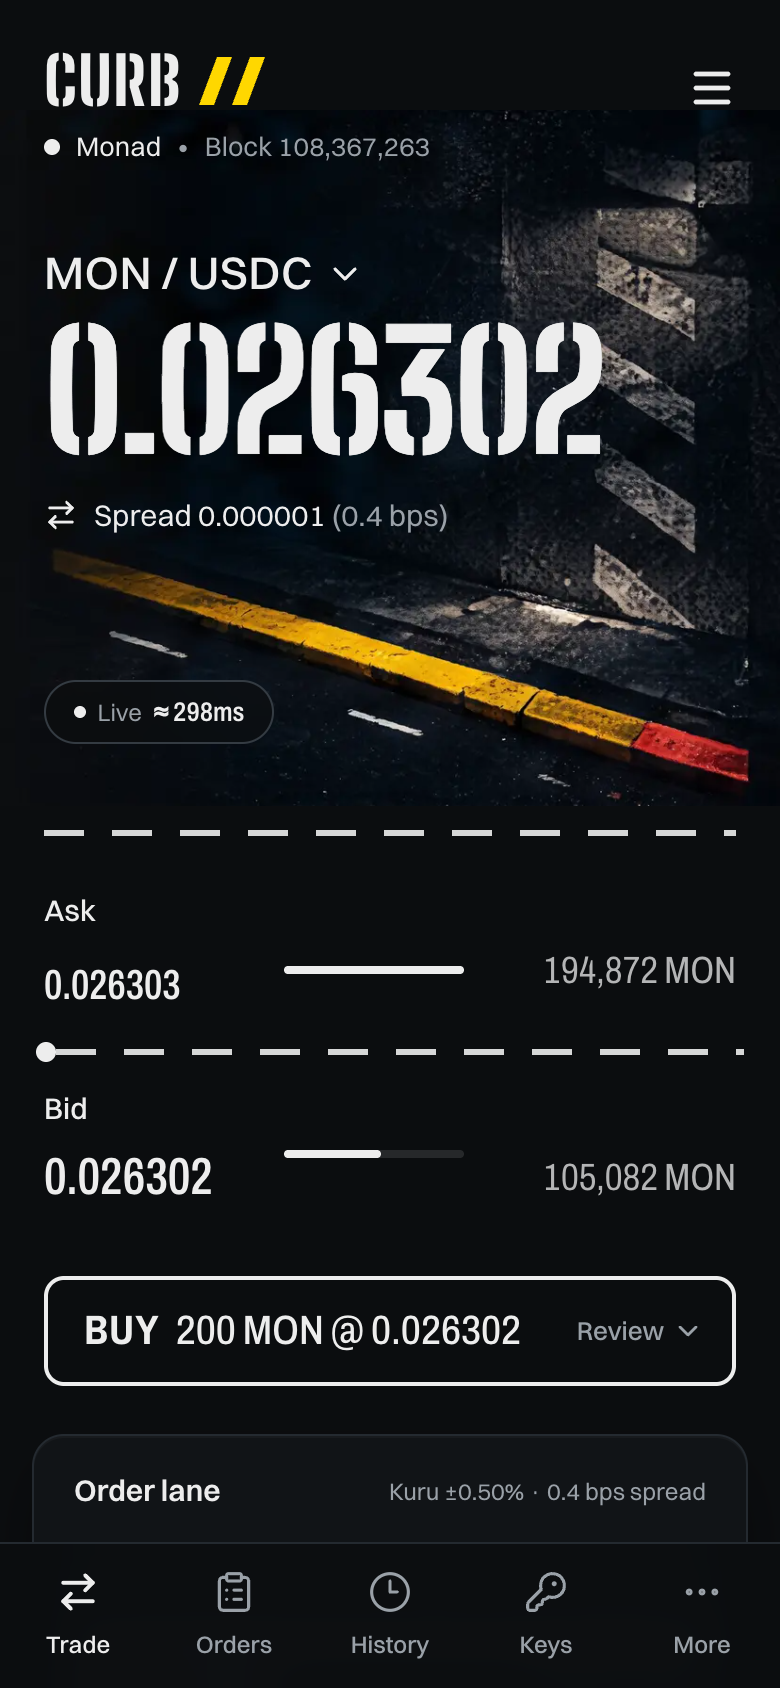
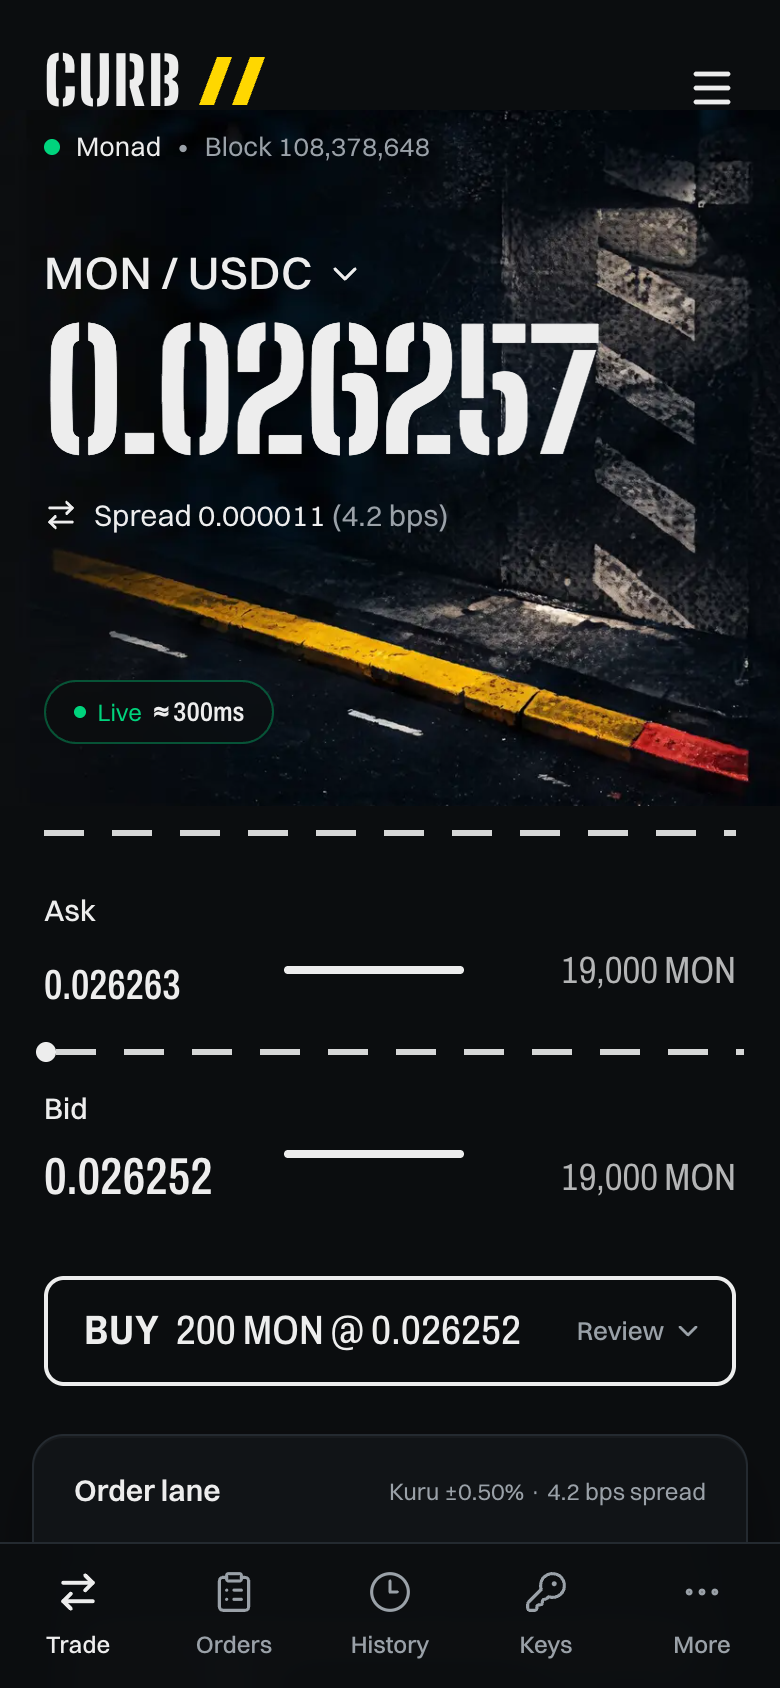
docs(#6): E-009 production serves the live green and identity work
Assets are byte-identical to the repo, share tags are absolute, the tab
title and live dot track real blocks, and all six routes load with zero
failed requests or console errors.

diff --git a/docs/EVIDENCE.md b/docs/EVIDENCE.md
@@ -68,3 +68,4 @@ The resting buy locked exactly price × size: 0.026702 USDC × 200 MON = 5.3404 
 | E-006 | 2026-09-27 | The board redesign (D-013) renders every screen on live Monad and Kuru data with no horizontal overflow at 390 / 430 / 768 / 1280 / 1440; the off-lane draft lands in the hatched off-book zone and the ticket names the refusal; `impeccable detect` finds nothing; an independent finish review ended `ship` | Playwright captures on `next dev` against mainnet (docs/evidence/ui/: trade-mobile, trade-desktop, offlane-mobile, orders-mobile); Impeccable comp-diff hero 81% (every text region passes; live-pill and buy-bar drift only by the user's waived colours); reviewer passes: full review `fix` (8 items) → verdict `fix` (2 partial + stencil "4" misreading as a decimal point) → verdict `ship`; lint 0 warnings, typecheck, 17 tests, warning-free build | branch `16-board-redesign` |
 | E-007 | 2026-09-27 | Curb is live on Monad mainnet data at https://curb-jet.vercel.app: all six routes return 200 and unknown paths a Next 404; the block stream advanced 10 blocks in 3 s with the lane dashes stepping exactly 10; the Kuru mid and lane curbs render; the curb plate loads through the image optimizer; /start runs in a secure context with WebAuthn available; zero console errors; no overflow at 390 or 1440 | curl per route; Playwright on production (block 108,367,253 → 108,367,263, `--step` 15 → 25); captures docs/evidence/ui/prod-trade-mobile.png, prod-trade-desktop.png | branch `6-vercel-deploy` |
[1 lines of base64/hex data omitted]
+| E-009 | 2026-09-27 | Production (https://curb-jet.vercel.app) serves the live green, identity and error work: favicon, apple-icon and share card are byte-identical to the repo; the manifest is standalone with a maskable icon; og/twitter tags use absolute production URLs; the tab title tracks the live mid; the live dot renders in P3 signal green while blocks stream; the 404 renders; across all six routes zero failed requests and zero console errors | curl per asset (sha256 match for favicon.ico, opengraph-image.png, apple-icon.png); Playwright on production: title 0.026255 → 0.026257 MON/USDC, blocks 108,378,638 → 108,378,648 in 3 s, dot `color(display-p3 0.33 0.82 0.52)`; capture docs/evidence/ui/prod-trade-mobile.png | branch `6-prod-identity-evidence` |

diff --git a/docs/STATE.md b/docs/STATE.md
@@ -1,13 +1,13 @@
 # State
 
-_Last verified: 2026-09-27, branch `19-live-green-identity`; repo: https://github.com/emmanuelist/curb (public); live: https://curb-jet.vercel.app_
+_Last verified: 2026-09-27, branch `6-prod-identity-evidence`; repo: https://github.com/emmanuelist/curb (public); live: https://curb-jet.vercel.app_
 
 **Thesis:** A trading key that can't withdraw, and can't trade off Kuru's live order book.
 **Milestone:** M1 · Walking skeleton (due 2026-10-02) · **Deadline:** 2026-10-13 23:59 ET · 16 days left
 **Next action:** The real-phone check on https://curb-jet.vercel.app (D-010, #6): the user creates an account in Safari, funds the owner key with ~50 MON, and sends gas to the trading key with Face ID.
 **Blocked on:** ~50 MON from the user for the phone check; the bounty texts (#5).
 
-## Works (E-006 to E-008 and the web gate verified 2026-09-27; E-001 to E-005 verified 2026-09-26)
+## Works (E-006 to E-009 and the web gate verified 2026-09-27; E-001 to E-005 verified 2026-09-26)
 
 | Capability | Verified by | Evidence |
 |---|---|---|
@@ -19,13 +19,13 @@ _Last verified: 2026-09-27, branch `19-live-green-identity`; repo: https://githu
 | Gate: lint (0 warnings), typecheck, 17 tests, warning-free build; contracts fork test | CI on GitHub | E-005 |
 | Board redesign (D-013) on every screen, live data, 390–1440 with no overflow; finish review `ship` | Playwright + Impeccable comp-diff, detector, reviewer | E-006 |
 | Production deploy on live mainnet data, blocks streaming, zero console errors | curl + Playwright on https://curb-jet.vercel.app | E-007 |
-| Live green (D-015), favicon, app icons, manifest, share card, 404 and error pages (local build; production after the next deploy) | Playwright + build output | E-008 |
+| Live green (D-015), favicon, app icons, manifest, share card, 404 and error pages, on production | Playwright + build output + curl on production | E-008, E-009 |
 
 ## Deployed
 
 | What | Network | Address / URL | Last checked |
 |---|---|---|---|
-| Web app (Vercel project `curb`, root `web/`) | Monad mainnet (reads) | https://curb-jet.vercel.app (D-014) | 2026-09-27 (E-007) |
+| Web app (Vercel project `curb`, root `web/`) | Monad mainnet (reads) | https://curb-jet.vercel.app (D-014) | 2026-09-27 (E-007, E-009) |
 
 ## Broken or unverified
 
